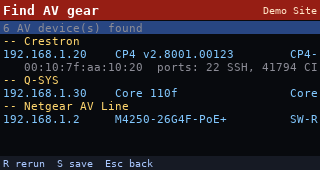
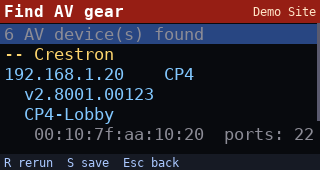
net-tools 0.1.8: bigger LCD text, wrap long result lines
Small screen now uses a 17 px font (about 6 rows x 31 columns) with
word-wrapped results, shorter menu labels and Up/Dn hints.

Claude-Session: https://claude.ai/code/session_01GkgDxeG2mjJ9KCWVtnQ19T

diff --git a/net-tools/tntnet/ui.py b/net-tools/tntnet/ui.py
@@ -94,7 +94,7 @@ def window(lines: list, cursor: int, rows: int, top: int) -> tuple[int, int]:
 class Menu(Screen):
     """A list of (label, action). Action is a callable(app)."""
 
-    def __init__(self, title: str, items: list, hint: str = "Enter open  Esc back"):
+    def __init__(self, title: str, items: list, hint: str = "Up/Dn move  Enter open  Esc"):
         self.title, self.items, self.hint = title, items, hint
         self.cur = 0
 
@@ -388,11 +388,13 @@ def find_lcd_fb():
 class Painter:
     """Draws a View onto a surface of any size with a given font size."""
 
-    def __init__(self, size: tuple[int, int], fsize: int, title_size: int, pad: int):
+    def __init__(self, size: tuple[int, int], fsize: int, title_size: int, pad: int,
+                 hint_size: int = 0, wrap: bool = False):
         self.size = size
+        self.wrap = wrap
         self.f = font(fsize)
         self.fb = font(title_size, bold=True)
-        self.fh = font(max(9, fsize - 1))
+        self.fh = font(hint_size or max(9, fsize - 1))
         self.lh = self.f.get_linesize()
         self.th = self.fb.get_linesize() + 4
         self.hh = self.fh.get_linesize() + 2
@@ -418,18 +420,37 @@ class Painter:
         lines = v.lines
         y = self.th + 1
         cols = self.cols()
-        for i in range(top, min(len(lines), top + rows)):
-            ln = as_line(lines[i])
-            text = ln.text.replace("\t", "    ")
+        wrap = self.wrap and not wide and not v.hscroll
+
+        def chunks(i):
+            text = as_line(lines[i]).text.replace("\t", "    ")
             if not wide and v.hscroll:
                 text = text[v.hscroll:]
-            if i == v.cursor:
-                surf.fill(SEL, (0, y, W, self.lh))
+            if not wrap or len(text) <= cols:
+                return [text[:cols + 1]]
+            import textwrap
+            ind = " " * min(len(text) - len(text.lstrip(" ")) + 2, cols // 3)
+            return textwrap.wrap(text, cols, subsequent_indent=ind, break_on_hyphens=False) or [""]
+
+        if wrap and 0 <= v.cursor < len(lines):
+            # keep the selected line fully on screen when long lines wrap
+            top = min(top, v.cursor)
+            while top < v.cursor and sum(len(chunks(j)) for j in range(top, v.cursor + 1)) > rows:
+                top += 1
+        used = 0
+        i = top
+        while i < len(lines) and used < rows:
+            ln = as_line(lines[i])
             color = ln.color
             if ln.payload is not None and color == WHITE:
                 color = INFO
-            surf.blit(self.f.render(text[:cols + 1] or " ", True, color), (self.pad, y))
-            y += self.lh
+            for part in chunks(i)[: rows - used]:
+                if i == v.cursor:
+                    surf.fill(SEL, (0, y, W, self.lh))
+                surf.blit(self.f.render(part or " ", True, color), (self.pad, y))
+                y += self.lh
+                used += 1
+            i += 1
         if v.edit is not None:
             ey = H - self.hh - self.lh - 1
             surf.fill((25, 25, 35), (0, ey, W, self.lh))
@@ -473,7 +494,8 @@ class Renderer:
         if found:
             self.lcd_dev, self.fw, self.fh, self.bpp = found
         self.lcd = pygame.Surface((320, 170))
-        self.lcd_p = Painter((320, 170), 11, 13, 3)
+        # Big enough to read at arm's length: about 6 rows x 31 columns.
+        self.lcd_p = Painter((320, 170), 17, 16, 4, hint_size=12, wrap=True)
         self.win = None
         self.win_p = None
         self.last = None

diff --git a/net-tools/tntnet/app.py b/net-tools/tntnet/app.py
@@ -17,7 +17,7 @@ import pygame  # noqa: E402
 from . import keys, reports, store, util  # noqa: E402
 from .ui import DIM, Field, Form, Menu, Message, Renderer, TaskScreen  # noqa: E402
 
-VERSION = "0.1.7"
+VERSION = "0.1.8"
 
 
 class App:
@@ -260,7 +260,7 @@ def av_menu(app):
 
     app.push(Menu("AV discovery", [
         ("Dante devices", withform("Dante devices", av.dante)),
-        ("Dante health (PTP, flooding)", withform("Dante health", av.dante_health, "30", util.wired_name())),
+        ("Dante health (PTP, floods)", withform("Dante health", av.dante_health, "30", util.wired_name())),
         ("NDI sources", withform("NDI sources", av.ndi)),
         ("AES67 / SAP streams", withform("AES67 / SAP", av.sap, "35")),
         ("PTP leader view", withform("PTP leader", av.ptp_view, "15", util.wired_name())),
@@ -319,7 +319,7 @@ def checks_menu(app):
     app.push(Menu("Network checks", [
         ("DHCP: rogue server check", simple("DHCP check", checks.dhcp, "6")),
         ("IP conflict check", simple("IP conflict", checks.conflict)),
-        ("LLDP / CDP: switch, port, VLAN", simple("LLDP / CDP", checks.lldp, "65")),
+        ("LLDP/CDP switch port, VLAN", simple("LLDP / CDP", checks.lldp, "65")),
         ("Link / cable errors", simple("Link check", checks.link, "15")),
         ("Control-port check", ports),
     ]))
@@ -361,7 +361,7 @@ def site_menu(app):
     app.push(Menu("Site & reports", [
         (lambda: f"Site: {app.site or '(not set)'}", set_site),
         ("Browse saved reports", browse),
-        ("Reports folder: ~/TNT-Net-Reports", lambda app: app.toast(reports.ROOT)),
+        ("Where reports are saved", lambda app: app.toast(reports.ROOT)),
     ]))
 
 
@@ -403,14 +403,14 @@ def main_menu(app) -> Menu:
         ("Traceroute", do_trace),
         ("IP scan (MAC maker, names)", do_scan),
         ("Find AV gear", do_findav),
-        ("AV discovery (Dante, NDI...)", av_menu),
+        ("AV discovery (Dante, NDI)", av_menu),
         ("Device login & info pull", lambda app: brand_menu(app)),
-        ("Terminal (SSH/Telnet/TCP/UDP/serial)", lambda app: terminal.setup(app)),
+        ("Terminal (SSH/Telnet/serial)", lambda app: terminal.setup(app)),
         ("Capture (sniffer, pcap)", capture_menu),
         ("Network checks", checks_menu),
         (lambda: f"Site & reports [{app.site or 'no site'}]", site_menu),
         ("Settings / about", settings_menu),
-    ], "Enter open  1-9 jump  Esc quit")
+    ], "Up/Dn move  Enter open  Esc quit")
 
 
 def shots(out_dir: str) -> None:
